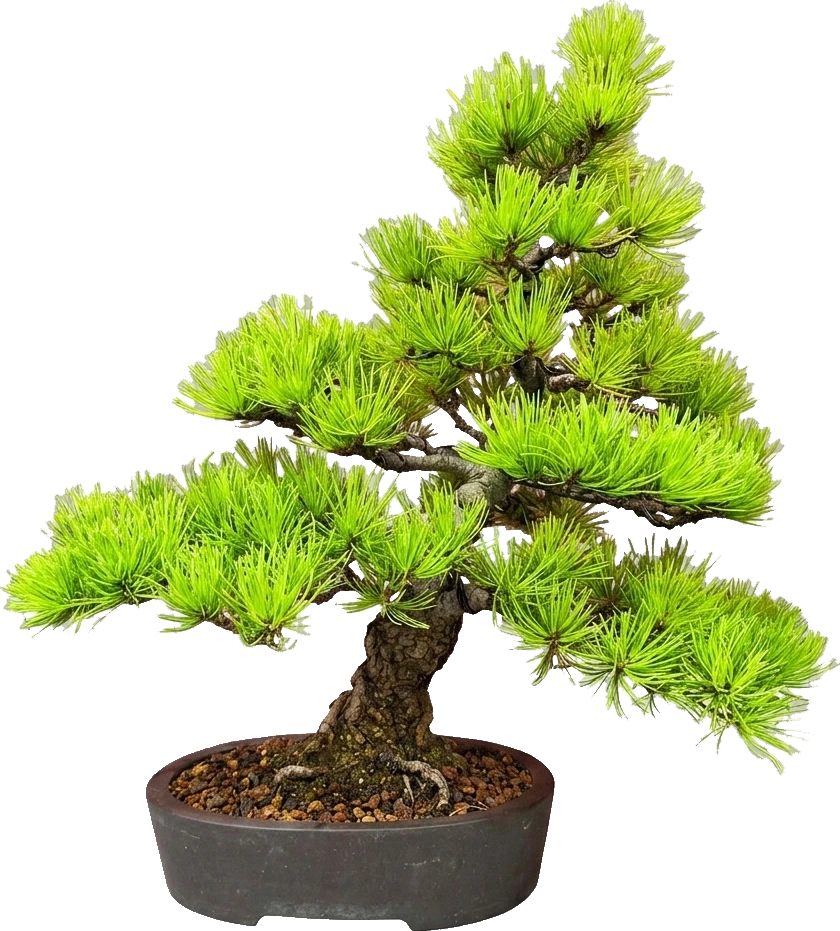
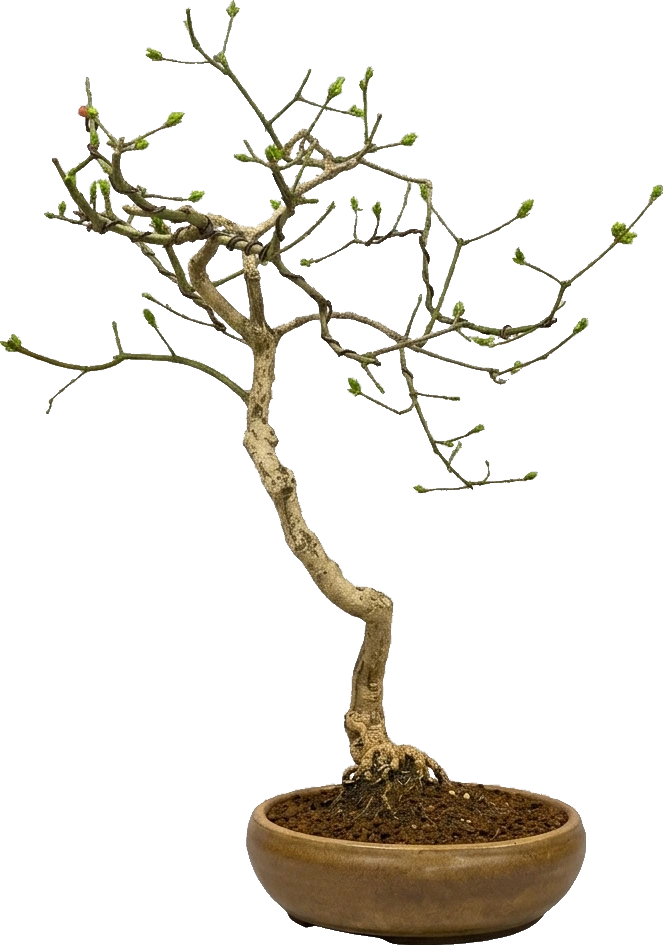
Fix: kaart hover volledig herschreven met HTML overlays voor betrouwbare interactie op alle markers

diff --git a/js/app.js b/js/app.js
@@ -385,7 +385,7 @@ function toggleTree(card) {
             'larix_decidua.webp': { realHeightCm: 48, bottomOffset: 0, scale: 1.00 },
             'acer_palmatum_groen_groot.webp': { realHeightCm: 50, bottomOffset: 0, scale: 1.04 },
             'acer_palmatum_winter.webp': { realHeightCm: 42, bottomOffset: 0, scale: 0.88 },
-            'juniperus_chinensis_pieter_chokkan.webp': { realHeightCm: 52, bottomOffset: 0, scale: 1.08 },
+            'acer_palmatum_pieter_chokkan.webp': { realHeightCm: 52, bottomOffset: 0, scale: 1.08 },
             'acer_palmatum_bos.webp': { realHeightCm: 46, bottomOffset: 0, scale: 0.96 },
             'ginkgo_biloba.webp': { realHeightCm: 44, bottomOffset: 0, scale: 0.92 }
         };
@@ -601,68 +601,23 @@ function initLightbox(lightboxId, imgId, captionId, closeClass, itemClass) {
     }, { passive: true });
 }
 
-// 7. Interactive NL Map with Premium HTML Tooltips
+// 7. Interactive NL Map — HTML overlay approach for 100% reliable hover events
 const initPremiumMap = () => {
     const container = document.querySelector('.nl-map-container-new');
     const tooltip = document.getElementById('map-tooltip');
-    const markers = document.querySelectorAll('.club-marker');
+    const svg = container ? container.querySelector('svg') : null;
+    const markers = container ? container.querySelectorAll('.club-marker') : [];
 
-    if (!container || !tooltip || !markers.length) return;
+    if (!container || !tooltip || !markers.length || !svg) return;
 
-    // Dynamically inject larger, invisible pointer-events hitboxes to make the tiny markers extremely easy to hover and click on PC
-    markers.forEach(marker => {
-        const hitbox = document.createElementNS('http://www.w3.org/2000/svg', 'circle');
-        hitbox.setAttribute('r', '8');
-        hitbox.setAttribute('fill', 'none');
-        hitbox.setAttribute('pointer-events', 'all');
-        hitbox.style.cursor = 'pointer';
-        marker.insertBefore(hitbox, marker.firstChild);
-    });
-
-    // Sleek touch detection that adapts to how the user actually interacts
-    let isTouchInteraction = false;
-    let lastTouchTime = 0;
-
-    window.addEventListener('touchstart', () => {
-        isTouchInteraction = true;
-        lastTouchTime = Date.now();
-    }, { passive: true });
-
-    window.addEventListener('mousemove', () => {
-        // Prevent mobile/hybrid touch events from triggering mousemove compatibility overrides
-        if (Date.now() - lastTouchTime < 1000) return;
-        isTouchInteraction = false;
-    }, { passive: true });
-
-    // Helper to check if it's a touch device
-    const checkTouch = () => {
-        return isTouchInteraction || window.matchMedia('(hover: none)').matches;
-    };
-
-    // Dynamic text update for touch devices
-    const mapHint = container.parentElement.querySelector('.map-hint') || document.querySelector('.map-hint');
-    const updateHint = () => {
-        if (mapHint) {
-            if (checkTouch()) {
-                mapHint.textContent = 'Tik op een stip voor details. Tik nogmaals om de website te bezoeken.';
-            } else {
-                mapHint.textContent = 'Beweeg over de stippen voor details. Klik om de website te bezoeken.';
-            }
-        }
-    };
-    updateHint();
-
-    // Listen to touch/mouse events to update hint text dynamically
-    window.addEventListener('touchstart', updateHint, { passive: true });
-    window.addEventListener('mousemove', updateHint, { passive: true });
+    // Disable all SVG pointer events — we handle everything in HTML overlays
+    svg.style.pointerEvents = 'none';
 
     let hideTimeout = null;
+    let activeMarker = null;
 
     const showTooltip = (marker) => {
-        if (hideTimeout) {
-            clearTimeout(hideTimeout);
-            hideTimeout = null;
-        }
+        if (hideTimeout) { clearTimeout(hideTimeout); hideTimeout = null; }
 
         const town = marker.getAttribute('data-town');
         const name = marker.getAttribute('data-name');
@@ -670,106 +625,105 @@ const initPremiumMap = () => {
 
         tooltip.querySelector('.tooltip-town').textContent = town;
         tooltip.querySelector('.tooltip-name').textContent = name;
-
-        // Set visible class first so we can measure the tooltip width
         tooltip.classList.add('visible');
+        activeMarker = marker;
 
-        // Align tooltip with the visual dot, NOT the larger parent hitbox group
-        const visualDot = marker.querySelector('.marker-dot') || marker;
-        const rect = visualDot.getBoundingClientRect();
-        const containerRect = container.getBoundingClientRect();
+        const dot = marker.querySelector('.marker-dot') || marker;
+        const dotRect = dot.getBoundingClientRect();
+        const cRect = container.getBoundingClientRect();
 
-        // Find center of marker relative to container
-        const markerX = rect.left - containerRect.left + rect.width / 2;
-        const y = rect.top - containerRect.top;
+        const markerX = dotRect.left - cRect.left + dotRect.width / 2;
+        const markerY = dotRect.top - cRect.top;
 
-        // Clamp tooltip position inside container
         const tooltipWidth = tooltip.offsetWidth;
-        const halfWidth = tooltipWidth / 2;
-        const buffer = 15; // padding from container edge
-        let tooltipX = markerX;
+        const half = tooltipWidth / 2;
+        const buf = 15;
+        let tx = markerX;
+        if (tx - half < buf) tx = half + buf;
+        else if (tx + half > cRect.width - buf) tx = cRect.width - half - buf;
 
-        if (tooltipX - halfWidth < buffer) {
-            tooltipX = halfWidth + buffer;
-        } else if (tooltipX + halfWidth > containerRect.width - buffer) {
-            tooltipX = containerRect.width - halfWidth - buffer;
-        }
-
-        tooltip.style.left = `${tooltipX}px`;
-        tooltip.style.top = `${y}px`;
-
-        // Calculate and set arrow offset
-        const arrowOffset = markerX - tooltipX;
-        tooltip.style.setProperty('--arrow-offset', `${arrowOffset}px`);
+        tooltip.style.left = `${tx}px`;
+        tooltip.style.top = `${markerY}px`;
+        tooltip.style.setProperty('--arrow-offset', `${markerX - tx}px`);
     };
 
     const hideTooltip = () => {
         tooltip.classList.remove('visible');
-        markers.forEach(m => m.classList.remove('active-touch'));
+        activeMarker = null;
     };
 
-    // Desktop/Hover Event Listeners
-    markers.forEach(marker => {
-        marker.addEventListener('mouseenter', () => {
-            if (!checkTouch()) showTooltip(marker);
-        });
+    // Create an HTML overlay div for each marker — plain HTML events, zero SVG quirks
+    const buildOverlays = () => {
+        container.querySelectorAll('.map-html-overlay').forEach(el => el.remove());
 
-        marker.addEventListener('mouseleave', () => {
-            if (!checkTouch()) {
-                // Debounce hide to prevent flickering when moving between markers quickly
-                hideTimeout = setTimeout(() => {
-                    hideTooltip();
-                }, 100);
-            }
-        });
+        markers.forEach(marker => {
+            const dot = marker.querySelector('.marker-dot') || marker;
+            const dotRect = dot.getBoundingClientRect();
+            const cRect = container.getBoundingClientRect();
 
-        marker.addEventListener('focus', () => {
-            showTooltip(marker);
-        });
+            const cx = dotRect.left - cRect.left + dotRect.width / 2;
+            const cy = dotRect.top - cRect.top + dotRect.height / 2;
+            const size = 28; // px — generous hit area
 
-        marker.addEventListener('blur', () => {
-            hideTooltip();
-        });
-    });
+            const overlay = document.createElement('div');
+            overlay.className = 'map-html-overlay';
+            overlay.style.cssText = `
+                position: absolute;
+                left: ${cx - size / 2}px;
+                top: ${cy - size / 2}px;
+                width: ${size}px;
+                height: ${size}px;
+                border-radius: 50%;
+                cursor: pointer;
+                z-index: 10;
+            `;
 
-    // Touch Interaction via click on the parent <a> tag
-    const links = container.querySelectorAll('svg a');
-    links.forEach(link => {
-        const marker = link.querySelector('.club-marker');
-        if (!marker) return;
+            // Desktop hover
+            overlay.addEventListener('mouseenter', () => {
+                if (hideTimeout) { clearTimeout(hideTimeout); hideTimeout = null; }
+                showTooltip(marker);
+            });
+            overlay.addEventListener('mouseleave', () => {
+                hideTimeout = setTimeout(hideTooltip, 80);
+            });
 
-        link.addEventListener('click', (e) => {
-            if (checkTouch()) {
-                if (!marker.classList.contains('active-touch')) {
-                    // First tap: prevent navigation and show tooltip
-                    e.preventDefault();
-                    e.stopPropagation(); // Stop document click from hiding it immediately
-                    
-                    hideTooltip(); // Hide any other open tooltips first
-                    
-                    marker.classList.add('active-touch');
-                    showTooltip(marker);
+            // Click / tap
+            const link = marker.closest('a');
+            overlay.addEventListener('click', (e) => {
+                if (activeMarker === marker && link) {
+                    // Tooltip already shown — navigate via the real <a> tag
+                    link.click();
                 } else {
-                    // Second tap: allow navigation (don't prevent default)
+                    // First interaction — show tooltip
+                    e.stopPropagation();
                     hideTooltip();
+                    showTooltip(marker);
                 }
-            }
+            });
+
+            container.appendChild(overlay);
         });
+    };
+
+    buildOverlays();
+
+    // Rebuild overlays on resize (SVG scales, positions shift)
+    window.addEventListener('resize', () => {
+        hideTooltip();
+        buildOverlays();
     });
 
-    // Dismiss tooltip when tapping outside (supports both clicks and touch taps)
-    const handleOutsideDismiss = (e) => {
-        if (!e.target.closest('.club-marker') && !e.target.closest('#map-tooltip')) {
+    // Dismiss on click outside
+    document.addEventListener('click', (e) => {
+        if (!e.target.closest('.map-html-overlay') && !e.target.closest('#map-tooltip')) {
             hideTooltip();
         }
-    };
-
-    document.addEventListener('click', handleOutsideDismiss, { passive: true });
-    document.addEventListener('touchstart', handleOutsideDismiss, { passive: true });
+    }, { passive: true });
 };
 
 // Initialize if on the right page
 if (document.querySelector('.nl-map-container-new')) {
     initPremiumMap();
 }
+
 

diff --git a/css/index.css b/css/index.css
@@ -3271,13 +3271,7 @@ body.atcb-modal-open {
     fill: #ffffff;
     stroke: var(--color-sage);
     stroke-width: 0.25;
-    transition: all 0.3s ease;
-}
-
-.map-prov:hover {
-    fill: var(--color-sand);
-    stroke: var(--color-bark);
-    stroke-width: 0.4;
+    pointer-events: none;
 }
 
 .club-marker {
@@ -3323,7 +3317,7 @@ body.atcb-modal-open {
     opacity: 0;
     visibility: hidden;
     transform: translate(-50%, -100%) translateY(-10px);
-    transition: opacity 0.2s ease, transform 0.2s ease, visibility 0.2s ease;
+    transition: opacity 0.05s ease, transform 0.05s ease, visibility 0.05s ease;
     z-index: 100;
     text-align: center;
     min-width: 160px;

diff --git a/galerij.html b/galerij.html
@@ -215,10 +215,10 @@
 
                         <div class="exhibition-card reveal-on-scroll" onclick="toggleTree(this)">
                             <div class="exhibition-image-box skeleton">
-                                <img src="images/trees/juniperus_chinensis_pieter_chokkan.webp" alt="Juniperus Chinensis (Jeneverbes)" loading="lazy">
+                                <img src="images/trees/acer_palmatum_pieter_chokkan.webp" alt="Acer Palmatum (Japanse Esdoorn)" loading="lazy">
                             </div>
                             <div class="exhibition-details">
-                                <h3 class="exhibition-species">Juniperus Chinensis</h3>
+                                <h3 class="exhibition-species">Acer Palmatum</h3>
                                 <p class="exhibition-style">Chokkan (Formeel Rechtopgaande Stijl)</p>
                             </div>
                         </div>

diff --git a/vereniging.html b/vereniging.html
@@ -70,7 +70,7 @@
 
 
                     <!-- Community Section -->
-                    <section class="community-map-section reveal-on-scroll">
+                    <section class="community-map-section">
                         <div class="section-header text-center">
                             <span class="section-subtitle">Landelijke Dekking</span>
                             <h2 class="section-title">Bonsai in Nederland</h2>
@@ -303,6 +303,6 @@
         </div>
     </div>
 
-    <script src="js/app.js" defer></script>
+    <script src="js/app.js?v=6" defer></script>
 </body>
 </html>